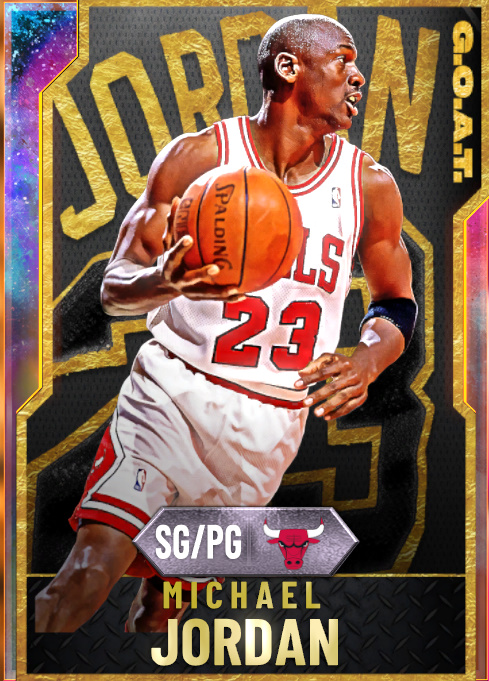
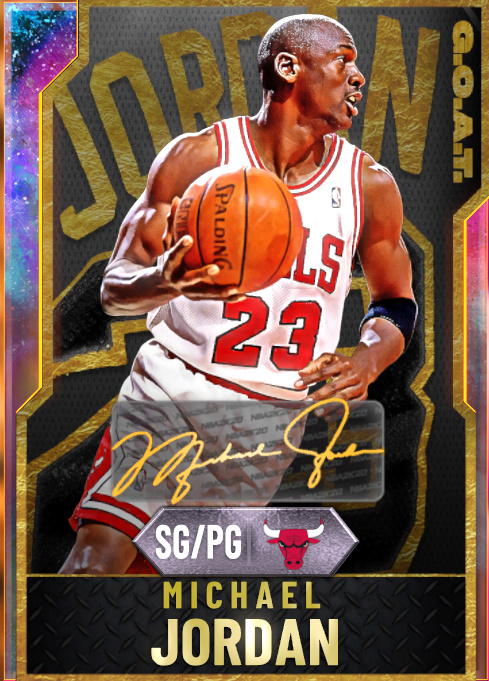
restyling id page

diff --git a/components/playercard.js b/components/playercard.js
@@ -22,94 +22,111 @@ export default function PlayerCard(props) {
             <div className="column is-7-mobile is-one-fifth-desktop is-2-tablet ">
                 <img src={require(`images/players/${playerData.info.name.replace(/ /g, "_").toLowerCase()}_${playerData.info.id}.jpg`)} />
             </div>
-            <div className="column is-5-mobile is-5-desktop is-2-tablet has-padding-2 is-player-info">
-                <p className="title is-size-3 has-text-weight-bold has-text-white">{playerData.info.name}</p>
-                <p className="subtitle is-paddingless is-size-6-desktop is-size-7-mobile has-text-warning has-text-weight-semibold"> 
-                    <a href={`/collection/${playerData.info.collection.toLowerCase().replace(/ /g, "-")}`}>{playerData.info.collection} </a>
-                    / 
-                    <a href={`/collection/${playerData.info.collection.toLowerCase().replace(/ /g, "-")}/theme/${playerData.info.theme.toLowerCase().replace(/ /g, "-")}`}> {playerData.info.theme} </a>
-                </p>
-                <div className="subtitle is-size-6 is-size-7-mobile has-text-white">
-                    <nav className="level ">
-                        <div className="level-item has-text-centered">
-                            <div>
-                                <p className="heading has-text-warning">Overall</p>
-                                <p className="title is-1 title has-text-white">
+            <div className="column is-centered is-5-mobile is-5-desktop is-2-tablet has-padding-2 is-player-info">
+			    <div className="columns is-vcentered is-centered">
+			             <div className="column is-2">
+                            <p className="heading has-text-warning" style={{ marginBottom:0 }}>Overall</p>
+                            <p className="title is-1 title has-text-white">
                                     {playerData.info.overall}
+                            </p>
+			            </div>				
+					    <div className="column is-9-desktop" style={{ paddingLeft:0 }}>
+			                    <p className="title is-size-3 has-text-weight-bold has-text-white">{playerData.info.name}</p>
+                                <p className="subtitle is-paddingless is-size-6-desktop is-size-7-mobile has-text-weight-semibold"> 
+                                          <a className="has-text-warning" href={`/collection/${playerData.info.collection.toLowerCase().replace(/ /g, "-")}`}>{playerData.info.collection} </a>
+                                          / 
+                                          <a className="has-text-warning" href={`/collection/${playerData.info.collection.toLowerCase().replace(/ /g, "-")}/theme/${playerData.info.theme.toLowerCase().replace(/ /g, "-")}`}> {playerData.info.theme} </a>
                                 </p>
-                            </div>
-                        </div>
-                        <div className="level-item has-text-centered">
-                            <div>
-                                <p className="heading has-text-warning">Off. Overall</p>
+				        </div>
+                </div>
+			  
+                <div className="subtitle is-size-6 is-size-7-mobile has-text-white">
+					<div className="columns is-vcentered has-text-centered">
+					    <div className="column">
+                                <p className="heading has-text-warning">Offense</p>
                                 <p className="title is-5 title has-text-white">{playerData.info.off_overall}</p>
-                            </div>
                         </div>
-                        <div className="level-item has-text-centered">
-                            <div>
-                                <p className="heading has-text-warning">Def. Overall</p>
+                        <div className="column">
+                                <p className="heading has-text-warning">Defense</p>
                                 <p className="title is-5 has-text-white">{playerData.info.def_overall}</p>
-                            </div>
                         </div>
-                        <div className="level-item has-text-centered">
-                            <div>
+						<div className="column">
                                 <p className="heading has-text-warning">Position</p>
                                 <p className="title is-5 has-text-white">{playerData.info.position}{playerData.info.secondary_position != null ? `/${playerData.info.secondary_position}` : ""}</p>
-                            </div>
                         </div>
-                        <div className="level-item has-text-centered">
-                            <div>
+                        <div className="column">
                                 <p className="heading has-text-warning">Height</p>
                                 <p className="title is-5 has-text-white">{playerData.info.height}</p>
-                            </div>
                         </div>
-                        <div className="level-item has-text-centered">
-                            <div>
+                        <div className="column">
                                 <p className="heading has-text-warning">Weight</p>
                                 <p className="title is-5 has-text-white">{playerData.info.weight} lbs</p>
-                            </div>
                         </div>
-                    </nav>
-                    <nav className="level ">
-                        {
+                    </div>
+                    <div className="columns has-text-centered"> 
+                        <div className="column">
+                                <p className="heading has-text-warning">Team</p>
+                                <p className="title is-6 has-text-white">{playerData.info.team}</p>
+                        </div>
+                        <div className="column">
+                                <p className="heading has-text-warning">From</p>
+                                <p className="title is-6 has-text-white">{playerData.info.college}</p>
+                        </div>
+						
+					{
                             playerData.info.nickname != " " ? (
-                                <div className="level-item has-text-centered">
+				
+                                <div className="column">
                                     <div>
                                         <p className="heading has-text-warning">Nickname</p>
-                                        <p className="title is-4 has-text-white">{playerData.info.nickname}</p>
+                                        <p className="title is-6 has-text-white">{playerData.info.nickname}</p>
                                     </div>
                                 </div>
+				
                             ) : ""
-                        }
-                        <div className="level-item has-text-centered">
-                            <div>
-                                <p className="heading has-text-warning">Team</p>
-                                <p className="title is-4 has-text-white">{playerData.info.team}</p>
-                            </div>
-                        </div>
-                        <div className="level-item has-text-centered">
-                            <div>
-                                <p className="heading has-text-warning">From</p>
-                                <p className="title is-4 has-text-white">{playerData.info.college}</p>
-                            </div>
-                        </div>
-                    </nav>
-                    <nav className="level ">
-                        <div className="level-item has-text-centered">
-                            <div className="columns is-centered">
+                       }
+					   
+                    </div>
+                            <div className="columns has-text-centered">
                                 <div className="column">
                                     <p className="heading has-text-warning">Plays</p>
-                                    <div className="tags has-addons is-rounded has-text-weight-bold">
-                                        <span className="tag is-dark">{playerData.info.play1}</span>
-                                        <span className="tag is-dark">{playerData.info.play2}</span>
-                                        <span className="tag is-dark">{playerData.info.play3}</span>
-                                        <span className="tag is-dark">{playerData.info.play4}</span>
-                                    </div> 
-
+                                    <div className="tags is-centered is-rounded has-text-weight-bold">
+                                        {
+											playerData.info.play1 != "None" ? (
+											   <span className="tag is-dark">
+											             <span className="icon" style={{ color:"#aaa"}}><i className="fas fa-basketball-ball"></i></span> &nbsp;{playerData.info.play1}
+											   </span> 
+														 ) : ""    
+										}
+										
+                                        {
+											playerData.info.play2 != "None" ? (
+											   <span className="tag is-dark">
+											             <span className="icon" style={{ color:"#aaa"}}><i className="fas fa-basketball-ball"></i></span> &nbsp;{playerData.info.play2}
+											   </span> 
+														 ) : ""
+										}
+										
+										{
+											playerData.info.play3 != "None" ? (
+											   <span className="tag is-dark">
+											             <span className="icon" style={{ color:"#aaa"}}><i className="fas fa-basketball-ball"></i></span> &nbsp;{playerData.info.play3}
+											   </span> 
+														 ) : ""
+										}
+										
+										{
+											playerData.info.play4 != "None" ? (
+											   <span className="tag is-dark">
+											             <span className="icon" style={{ color:"#aaa"}}><i className="fas fa-basketball-ball"></i></span> &nbsp;{playerData.info.play4}
+											   </span> 
+														 ) : ""
+										}
+										
+                                    </div>
                                 </div>
                             </div>
-                        </div>
-                    </nav>
+
                 </div>
                 <div className="container">
                     <div className="columns is-centered">

diff --git a/pages/players/[id].js b/pages/players/[id].js
@@ -108,6 +108,7 @@ export default function Player({ playerData }) {
             <Head>
                 <title>{playerData.info.name} | 2KDB</title>
                 <meta name="viewport" content="initial-scale=1.0, width=device-width" />
+				<script defer src="https://use.fontawesome.com/releases/v5.3.1/js/all.js"></script>
             </Head>
             <div className="container is-fluid">
                 <PlayerCard playerData={playerData} />

diff --git a/styles/global.scss b/styles/global.scss
@@ -11,7 +11,7 @@ $logo-color: #ED1B24;
 //global variables
 $danger: #FF0000;
 $link: #FF9E00;
-$info: #B0FF00;
+$info: #228b22;
 $success: rgb(0, 190, 0);
 $primary: $logo-color;
 $black: #000000;
@@ -110,7 +110,7 @@ $tabs-link-active-color: $blue;
 .total_badges_style {
     font-family: "Rajdhani";
 	font-weight: 700;
-	font-size: 1.7em;
+	font-size: 1.85em;
 	color: #fff;
 	text-shadow: 1px 1px 0px #555;
 	margin-top: 0.1em;
